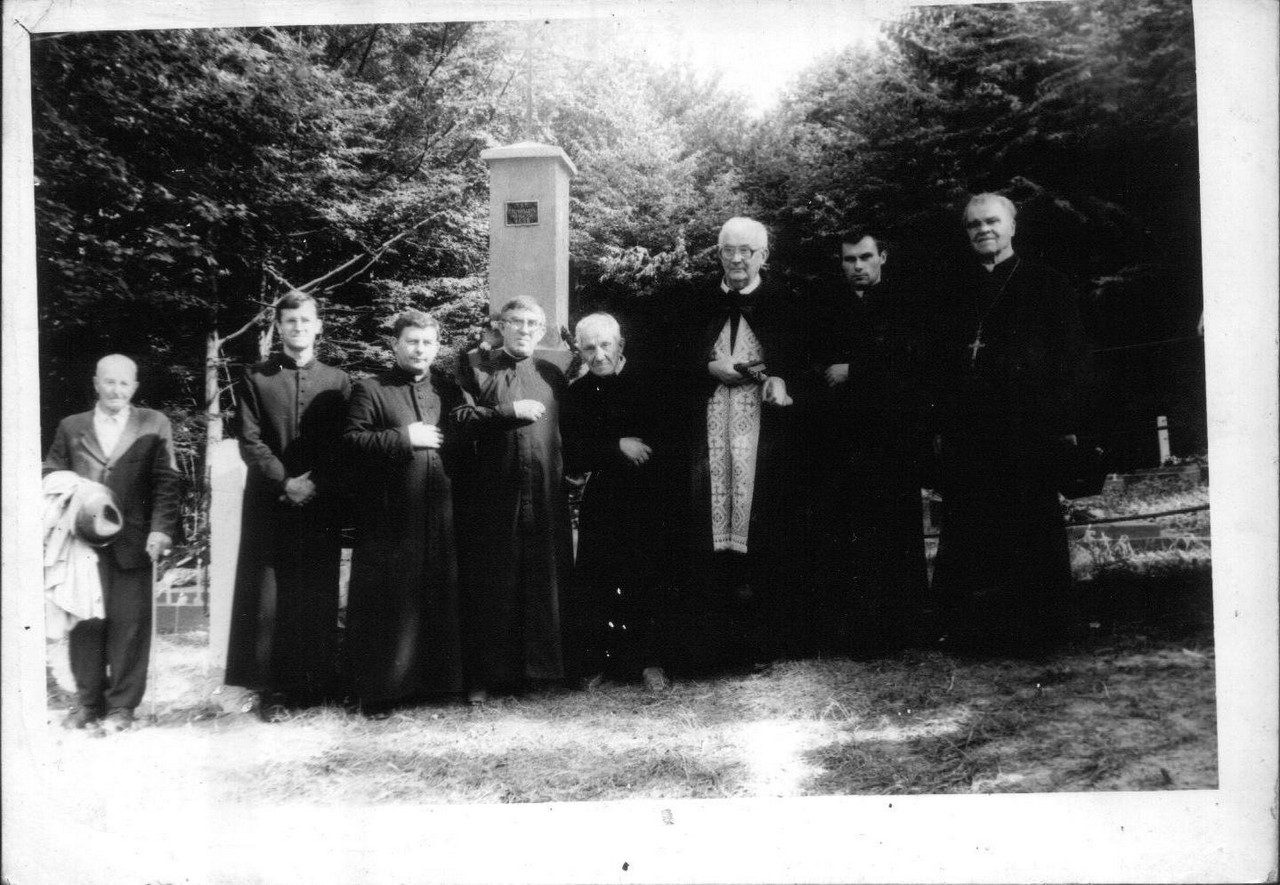
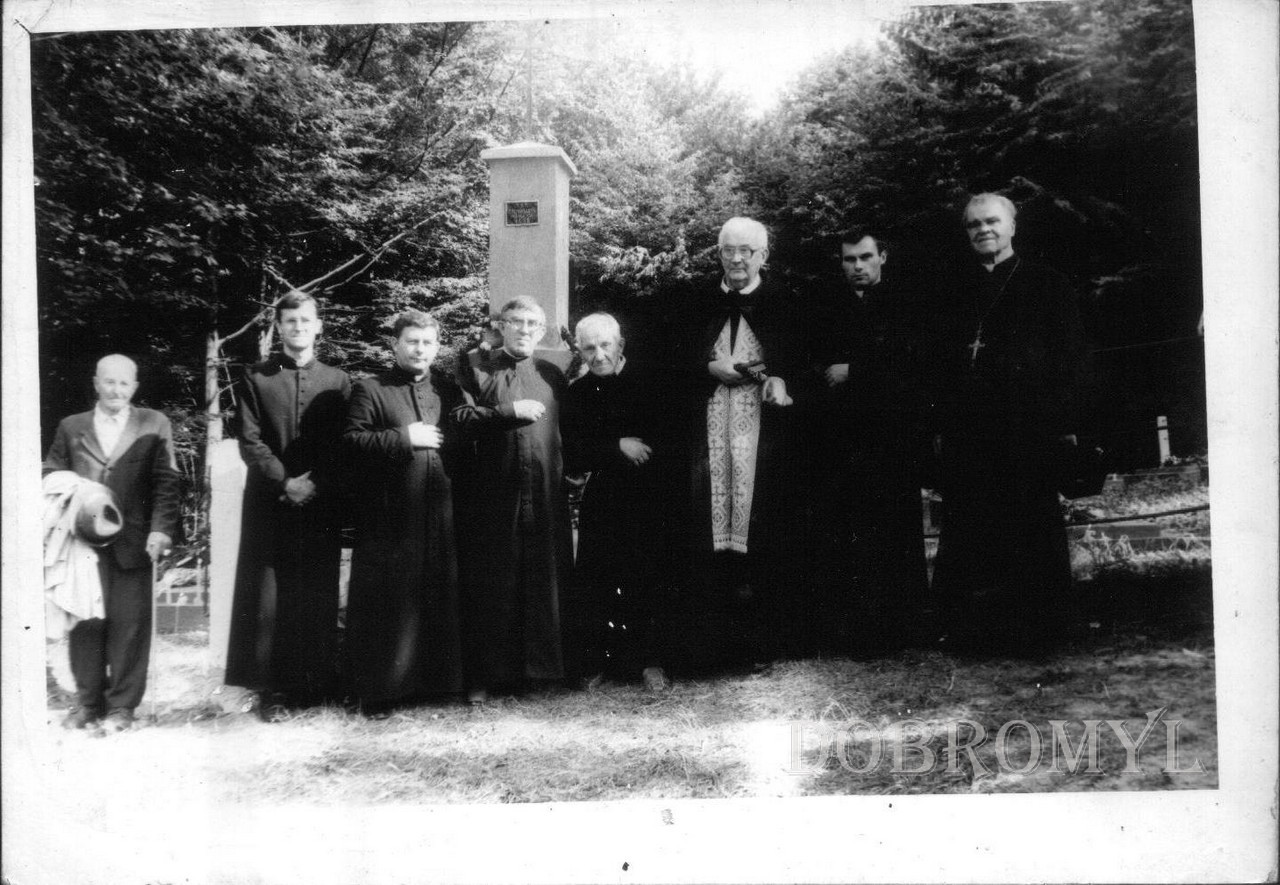
Add watermarks

Changed region(s): [[0.625, 0.7932, 0.9375, 0.8847]]

diff --git a/store/photos.ts b/store/photos.ts
@@ -35,7 +35,7 @@ export default class PhotosModule extends VuexModule {
     ...imagesSoviets,
     ...imagesWWII,
     ...imagesNl
-  ]
+  ];
 
   wordsKeysFilters: Record<string, any> = Object.keys(IMAGES_KEYS)
     .reduce((filtersObject: any, key: string) => {

diff --git a/store/images_repo/soviets.ts b/store/images_repo/soviets.ts
@@ -111,4 +111,4 @@ export const imagesSoviets: Image[] = [
     source: `${linkSourceGenerator('Санаторій "Добромиль"', 'http://dobromyl.org/2018/02/sanatorij-dobromyl/')}`,
     year: 1980
   }
-]
+];
